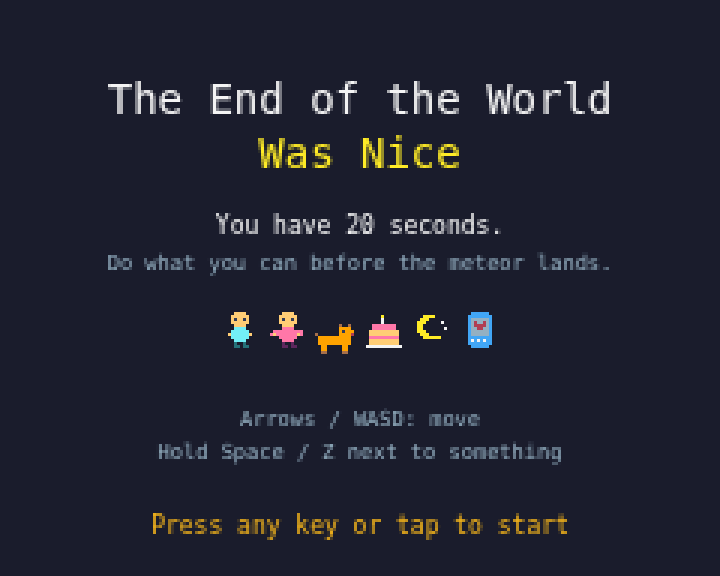
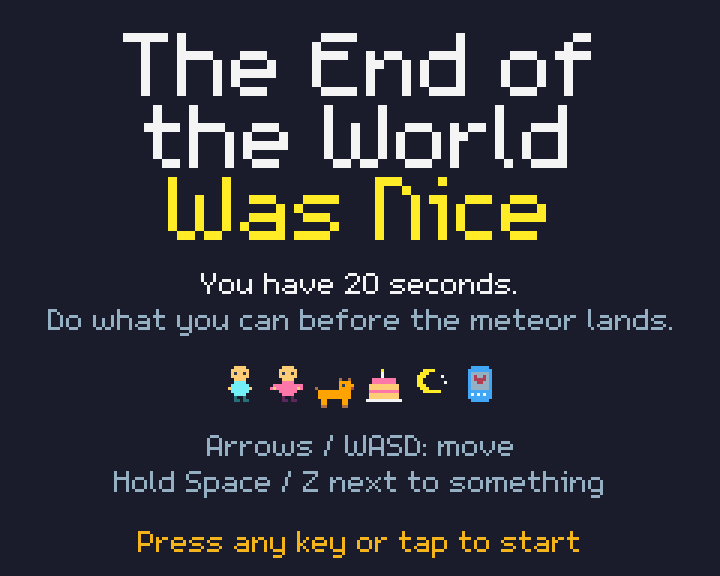
Draw text from the m5x7 bitmap font instead of canvas fillText
Canvas text was antialiased and blurred when the 240x192 canvas was scaled
up. Text now blits glyphs from a tinted font sheet at whole-number scales,
with widths measured at load. Title and epilogue re-laid out; screenshots
regenerated; font credited on the itch page copy.

Changed region(s): [[0.0611, 0.0312, 0.9167, 0.9688]]

diff --git a/web/index.html b/web/index.html
@@ -40,6 +40,59 @@
   const atlas = new Image();
   atlas.src = "art.png";
   const SPRITE = 16;
+
+  // Bitmap font: m5x7, ASCII 32..126 in a 16x6 grid of 8x9 cells, 7 rows above the baseline.
+  const FONT_W = 8, FONT_H = 9, FONT_BASE = 7;
+  const font = new Image();
+  font.src = "font.png";
+  const fontAdvance = [];
+  const fontTinted = new Map();
+  font.onload = () => {
+    const probe = document.createElement("canvas");
+    probe.width = font.width; probe.height = font.height;
+    const pc = probe.getContext("2d");
+    pc.drawImage(font, 0, 0);
+    const px = pc.getImageData(0, 0, font.width, font.height).data;
+    for (let i = 0; i < 95; i++) {
+      const cx = (i % 16) * FONT_W, cy = Math.floor(i / 16) * FONT_H;
+      let right = -1;
+      for (let x = 0; x < FONT_W; x++)
+        for (let y = 0; y < FONT_H; y++)
+          if (px[((cy + y) * font.width + cx + x) * 4 + 3] > 0) right = Math.max(right, x);
+      fontAdvance[i] = right < 0 ? 3 : right + 2; // ink plus one pixel of spacing
+    }
+  };
+  // The sheet tinted to one colour, cached (white ink painted over with source-in).
+  const tintedFont = (rgb) => {
+    let c = fontTinted.get(rgb);
+    if (!c) {
+      c = document.createElement("canvas");
+      c.width = font.width; c.height = font.height;
+      const g = c.getContext("2d");
+      g.drawImage(font, 0, 0);
+      g.globalCompositeOperation = "source-in";
+      g.fillStyle = css(rgb);
+      g.fillRect(0, 0, c.width, c.height);
+      fontTinted.set(rgb, c);
+    }
+    return c;
+  };
+  const drawBitmapText = (x, y, str, rgb, scale, centered) => {
+    if (!fontAdvance.length) return; // font not decoded yet
+    const idx = (ch) => { const i = ch.charCodeAt(0) - 32; return i >= 0 && i < 95 ? i : 0; };
+    let width = 0;
+    for (const ch of str) width += fontAdvance[idx(ch)] * scale;
+    let px = Math.round(centered ? x - width / 2 : x);
+    px = Math.max(1, Math.min(px, cv.width - 1 - width)); // keep the text on screen
+    const top = Math.round(y) - FONT_BASE * scale;
+    const sheet = tintedFont(rgb);
+    for (const ch of str) {
+      const i = idx(ch);
+      ctx.drawImage(sheet, (i % 16) * FONT_W, Math.floor(i / 16) * FONT_H, FONT_W, FONT_H,
+                    px, top, FONT_W * scale, FONT_H * scale);
+      px += fontAdvance[i] * scale;
+    }
+  };
   // Order must match `Sound` in src/game/art.odin.
   const SOUND_FILES = ["sfx/done.wav", "sfx/meteor.wav", "sfx/epilogue.wav"];
   const sounds = [];
@@ -112,11 +165,8 @@
         src.connect(gain).connect(audio.destination);
         src.start();
       },
-      draw_text: (x, y, ptr, len, rgb, size, centered) => {
-        ctx.font = size + "px monospace";
-        ctx.textAlign = centered ? "center" : "left";
-        ctx.fillStyle = css(rgb);
-        ctx.fillText(memory.loadString(ptr, len), x, y);
+      draw_text: (x, y, ptr, len, rgb, scale, centered) => {
+        drawBitmapText(x, y, memory.loadString(ptr, len), rgb, scale, centered);
       },
     },
   }, memory);

diff --git a/CLAUDE.md b/CLAUDE.md
@@ -13,7 +13,7 @@ python3 -m http.server -d build/web 8000   # serve it; wasm cannot load from fil
 odin test src/game -collection:tggd=src -define:ODIN_TEST_THREADS=1 -define:ODIN_TEST_NAMES=game.run_ends_at_twenty_seconds   # a single test
 ```
 
-Assets: `assets/art/world.json` is an export of the Anvil world (source copy `~/anvil-worlds/nice-apocalypse.json`; sprites 16x16, 16-colour palette); `tools/gen_atlas.py` packs its sprites into `build/web/art.png` in sprite-set order, which must match `Sprite` in `src/game/art.odin`. Sound effects are PLAY-text sounds in the Anvil world exported to `assets/sfx/*.wav` (`sound_export`); `Sound` order must match `SOUND_FILES` in `web/index.html`. To change art or sound: edit in Anvil, re-export both, rebuild.
+Assets: `assets/art/world.json` is an export of the Anvil world (source copy `~/anvil-worlds/nice-apocalypse.json`; sprites 16x16, 16-colour palette); `tools/gen_atlas.py` packs its sprites into `build/web/art.png` in sprite-set order, which must match `Sprite` in `src/game/art.odin`. Sound effects are PLAY-text sounds in the Anvil world exported to `assets/sfx/*.wav` (`sound_export`); `Sound` order must match `SOUND_FILES` in `web/index.html`. Text is drawn from a bitmap font sheet, `assets/font/m5x7.png` (m5x7 by Daniel Linssen, credited on the itch page), by `drawBitmapText` in `web/index.html`: whole-number scales only, `y` is the baseline, and glyph widths are measured at load. Do not go back to canvas `fillText`; it blurred the pixel art. To change art or sound: edit in Anvil, re-export both, rebuild.
 
 Layout: `src/game` is the pure rules (`step(&game, input, dt)`, dt in seconds, no platform imports); `src/web` is `#+build js`, owns key input, `step` export and drawing through the `fill_rect` import; `web/index.html` holds the JS canvas shim and is copied by the build. Both packages are imported with `-collection:tggd=src`. Task tracking is in the Coxswain project `tggd-20seconds` (tools need `agent: "claude"`; register first).
 

diff --git a/ITCH_DESCRIPTION.md b/ITCH_DESCRIPTION.md
@@ -19,7 +19,7 @@ When the meteor lands, the screen goes soft and warm, and the game tells you how
 
 Every run is 20 seconds and nothing carries over.
 
-**Made with:** Odin, compiled to WebAssembly, drawing to a plain 2D canvas. The pixel art and the three sound effects were made with the Anvil of SPLORR!!, TheGrumpyGameDev's own asset tools. The game, the art and the sounds were made with Claude (generative AI) working alongside TheGrumpyGameDev.
+**Made with:** Odin, compiled to WebAssembly, drawing to a plain 2D canvas. The pixel art and the three sound effects were made with the Anvil of SPLORR!!, TheGrumpyGameDev's own asset tools. The text is the m5x7 pixel font by Daniel Linssen (managore). The game, the art and the sounds were made with Claude (generative AI) working alongside TheGrumpyGameDev.
 
 ## Notes (not for the page)
 

diff --git a/assets/font/README.md b/assets/font/README.md
@@ -1,0 +1,7 @@
+# Font
+
+`m5x7.png` is the m5x7 pixel font by Daniel Linssen (managore), https://managore.itch.io/m5x7
+(CC0; attribution appreciated). It is the 16 by 6 ASCII sheet (codes 32 to 126, 8 by 9 pixel cells,
+7 rows above the baseline) from the BOK's `Assets/Fontm5x7.png`, converted to white ink on a
+transparent background so the page can tint it. The page measures each glyph's width at load, so
+text is proportional.
